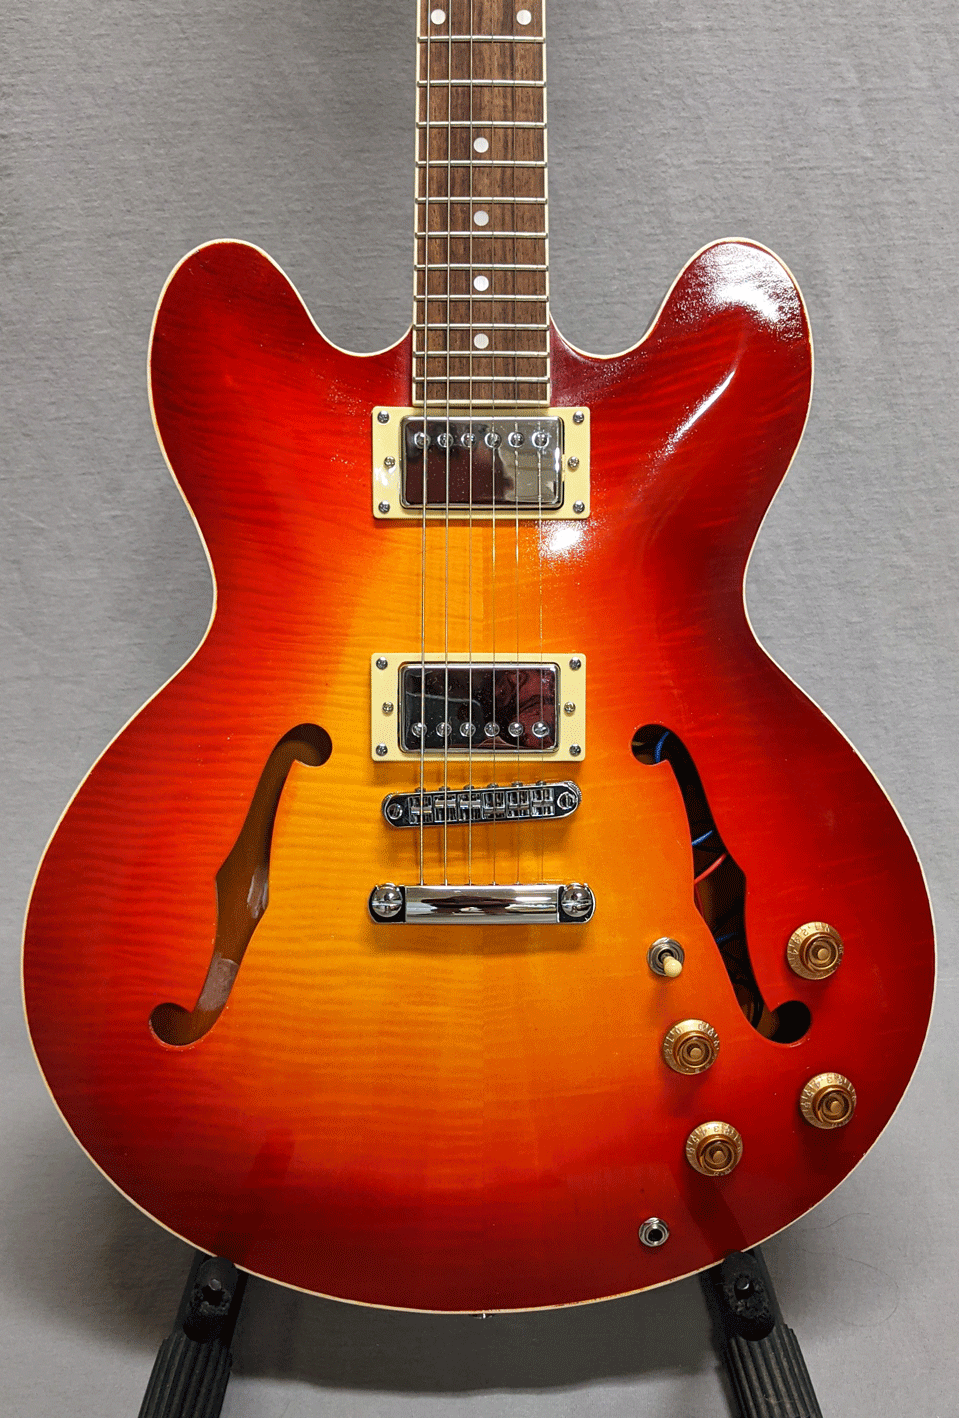
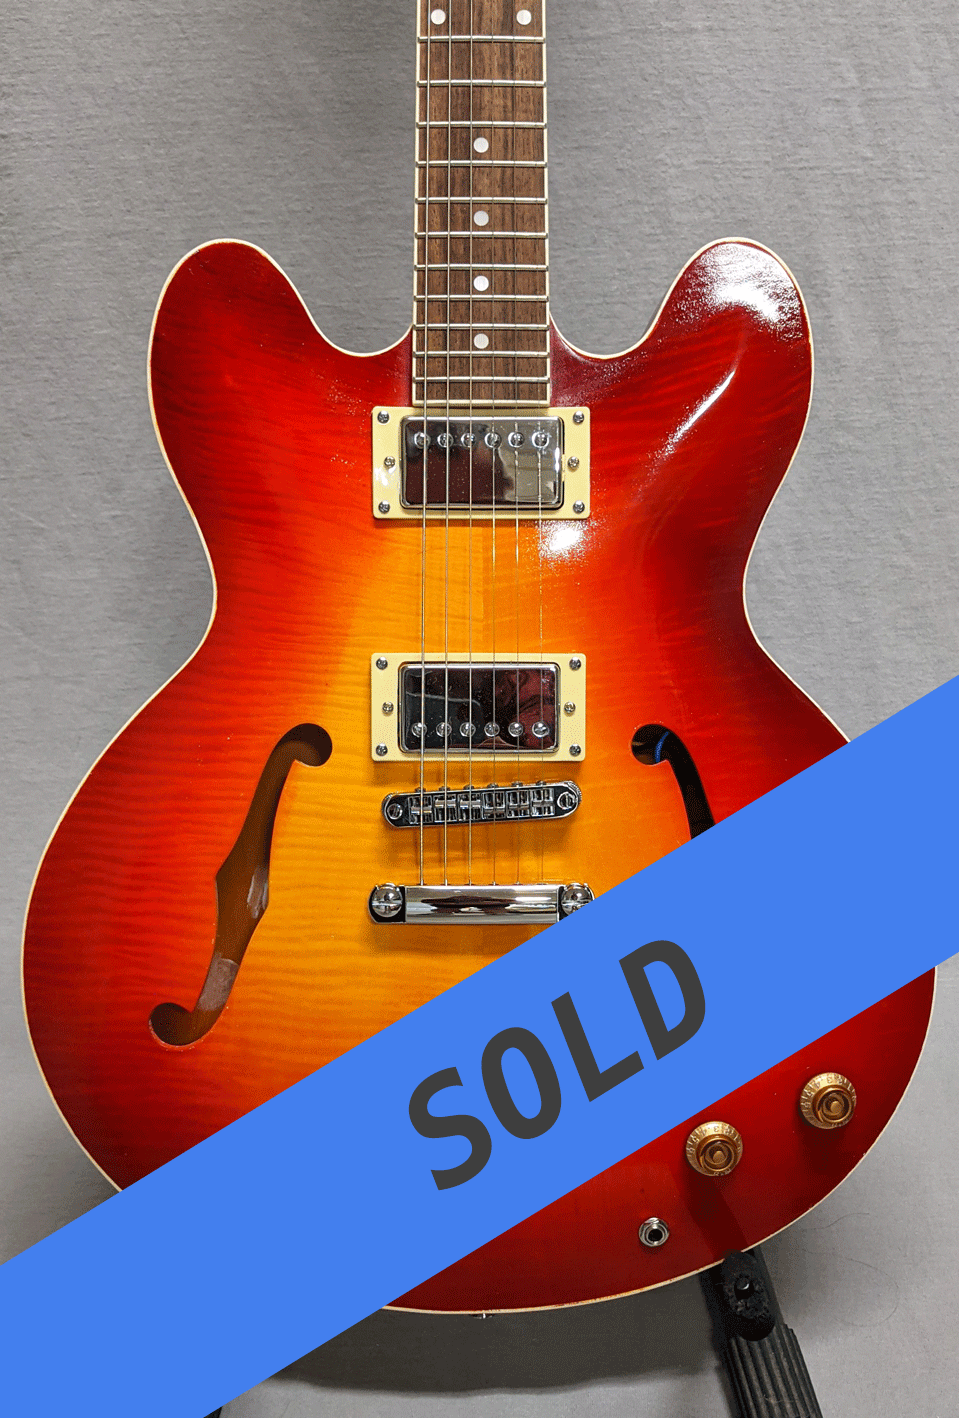
update sold items, fix typo

Changed region(s): [[0.0, 0.4654, 1.0, 1.0]]

diff --git a/src/templates/prod-template.js b/src/templates/prod-template.js
@@ -18,7 +18,7 @@ const ProdTemplate = ({ data }) => {
         <div>
           <h1>{title}</h1>
           <h4>
-            Posted on <span>{date}</span>
+            Updated on <span>{date}</span>
           </h4>
         </div>
         <GatsbyImage image={img} alt="kerf guitar for sale" />
@@ -26,7 +26,7 @@ const ProdTemplate = ({ data }) => {
           <MDXRenderer>{body}</MDXRenderer>
         </div>
         <div>
-        Availalbe now -- use <Link to="/contact" > Contact form</Link> to request more details. Your purchase is protected by <Link to="/kerfcare" > kerfCare</Link>.
+        Available now -- use <Link to="/contact" > Contact form</Link> to request more details. Your purchase is protected by <Link to="/kerfcare" > kerfCare</Link>.
         </div>
         {/* <h4>
           <span>Written by {author}</span> & Posted on <span>{date}</span>
